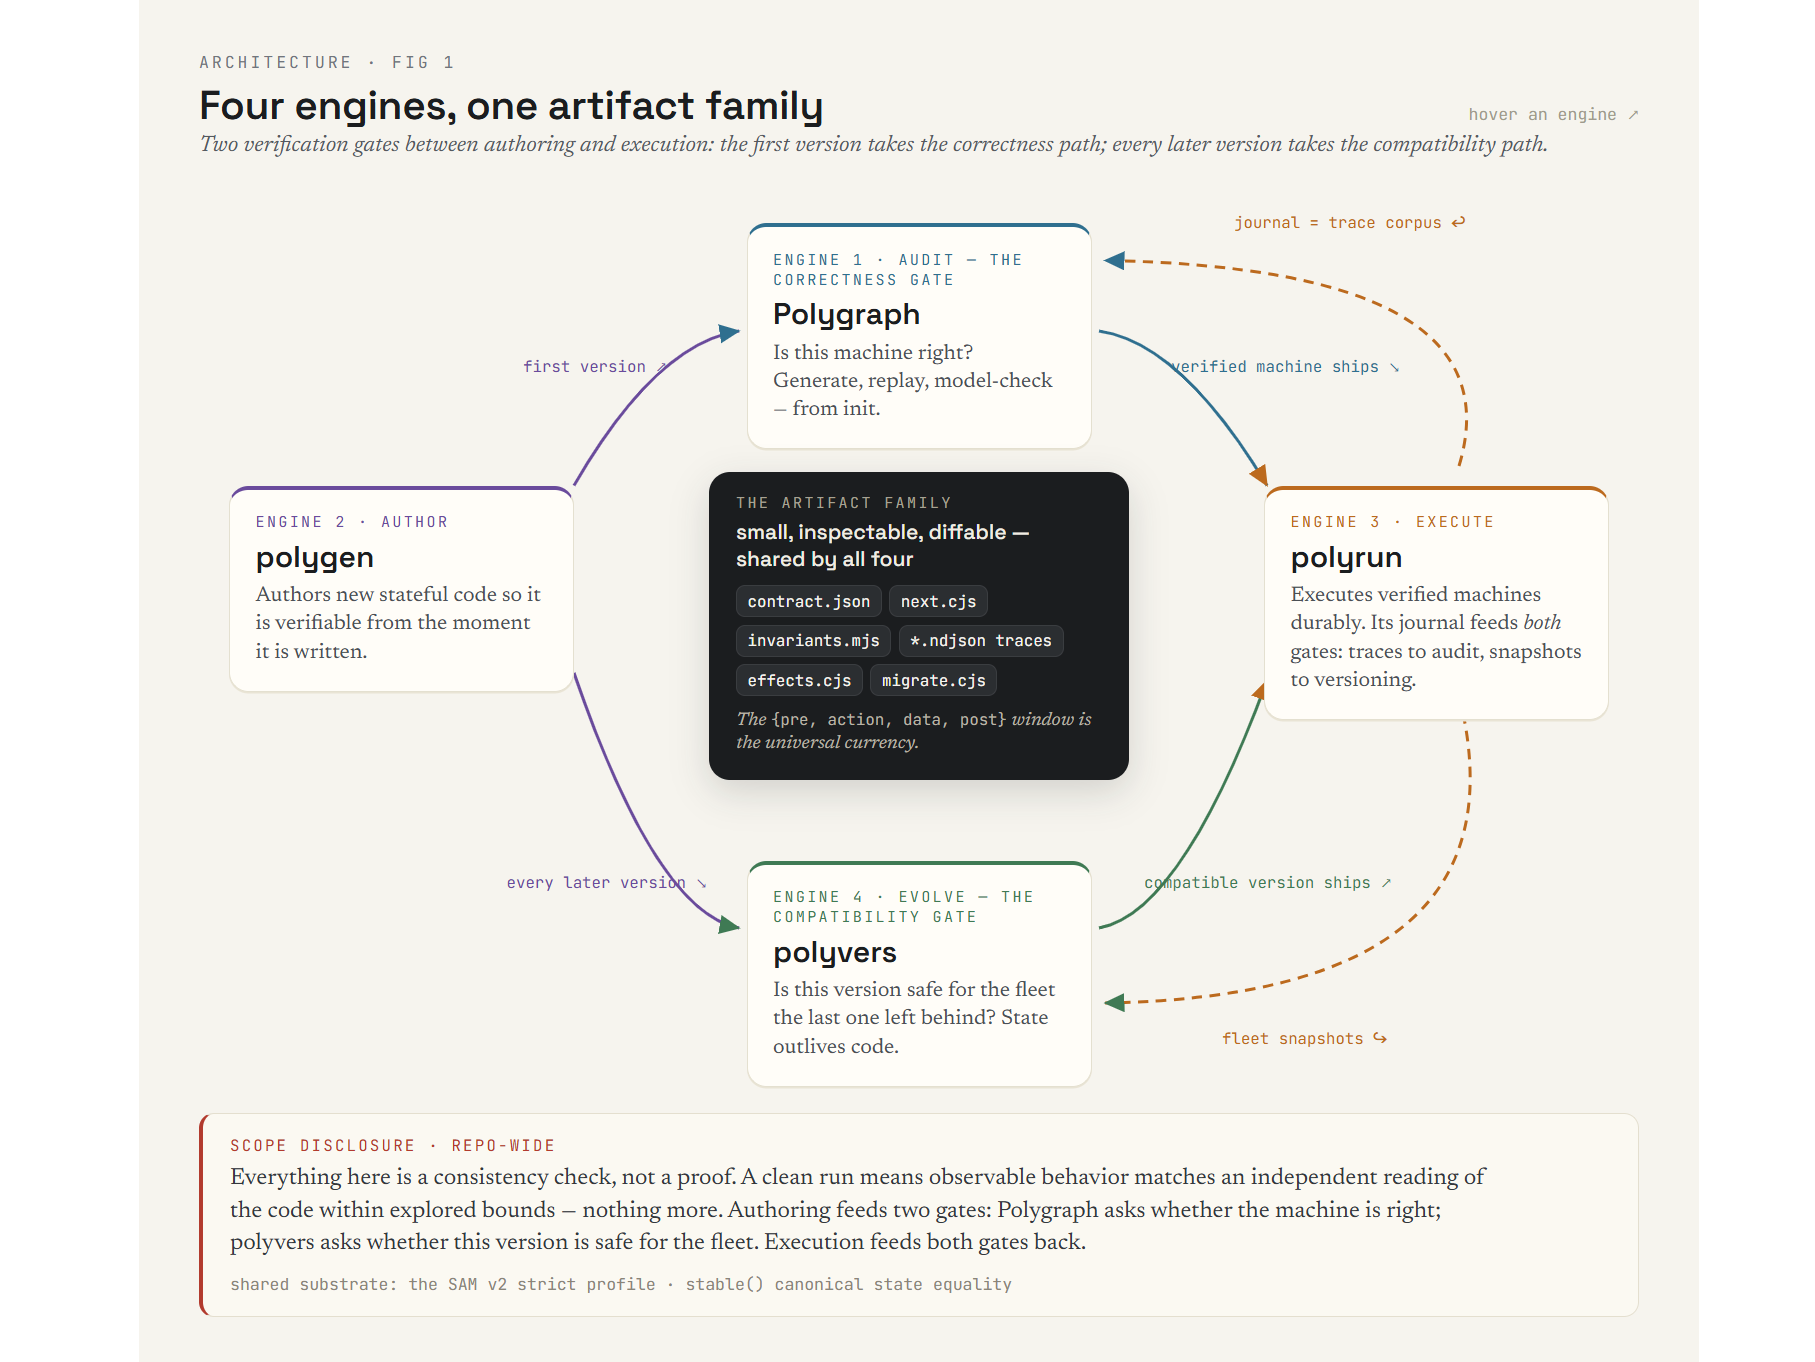
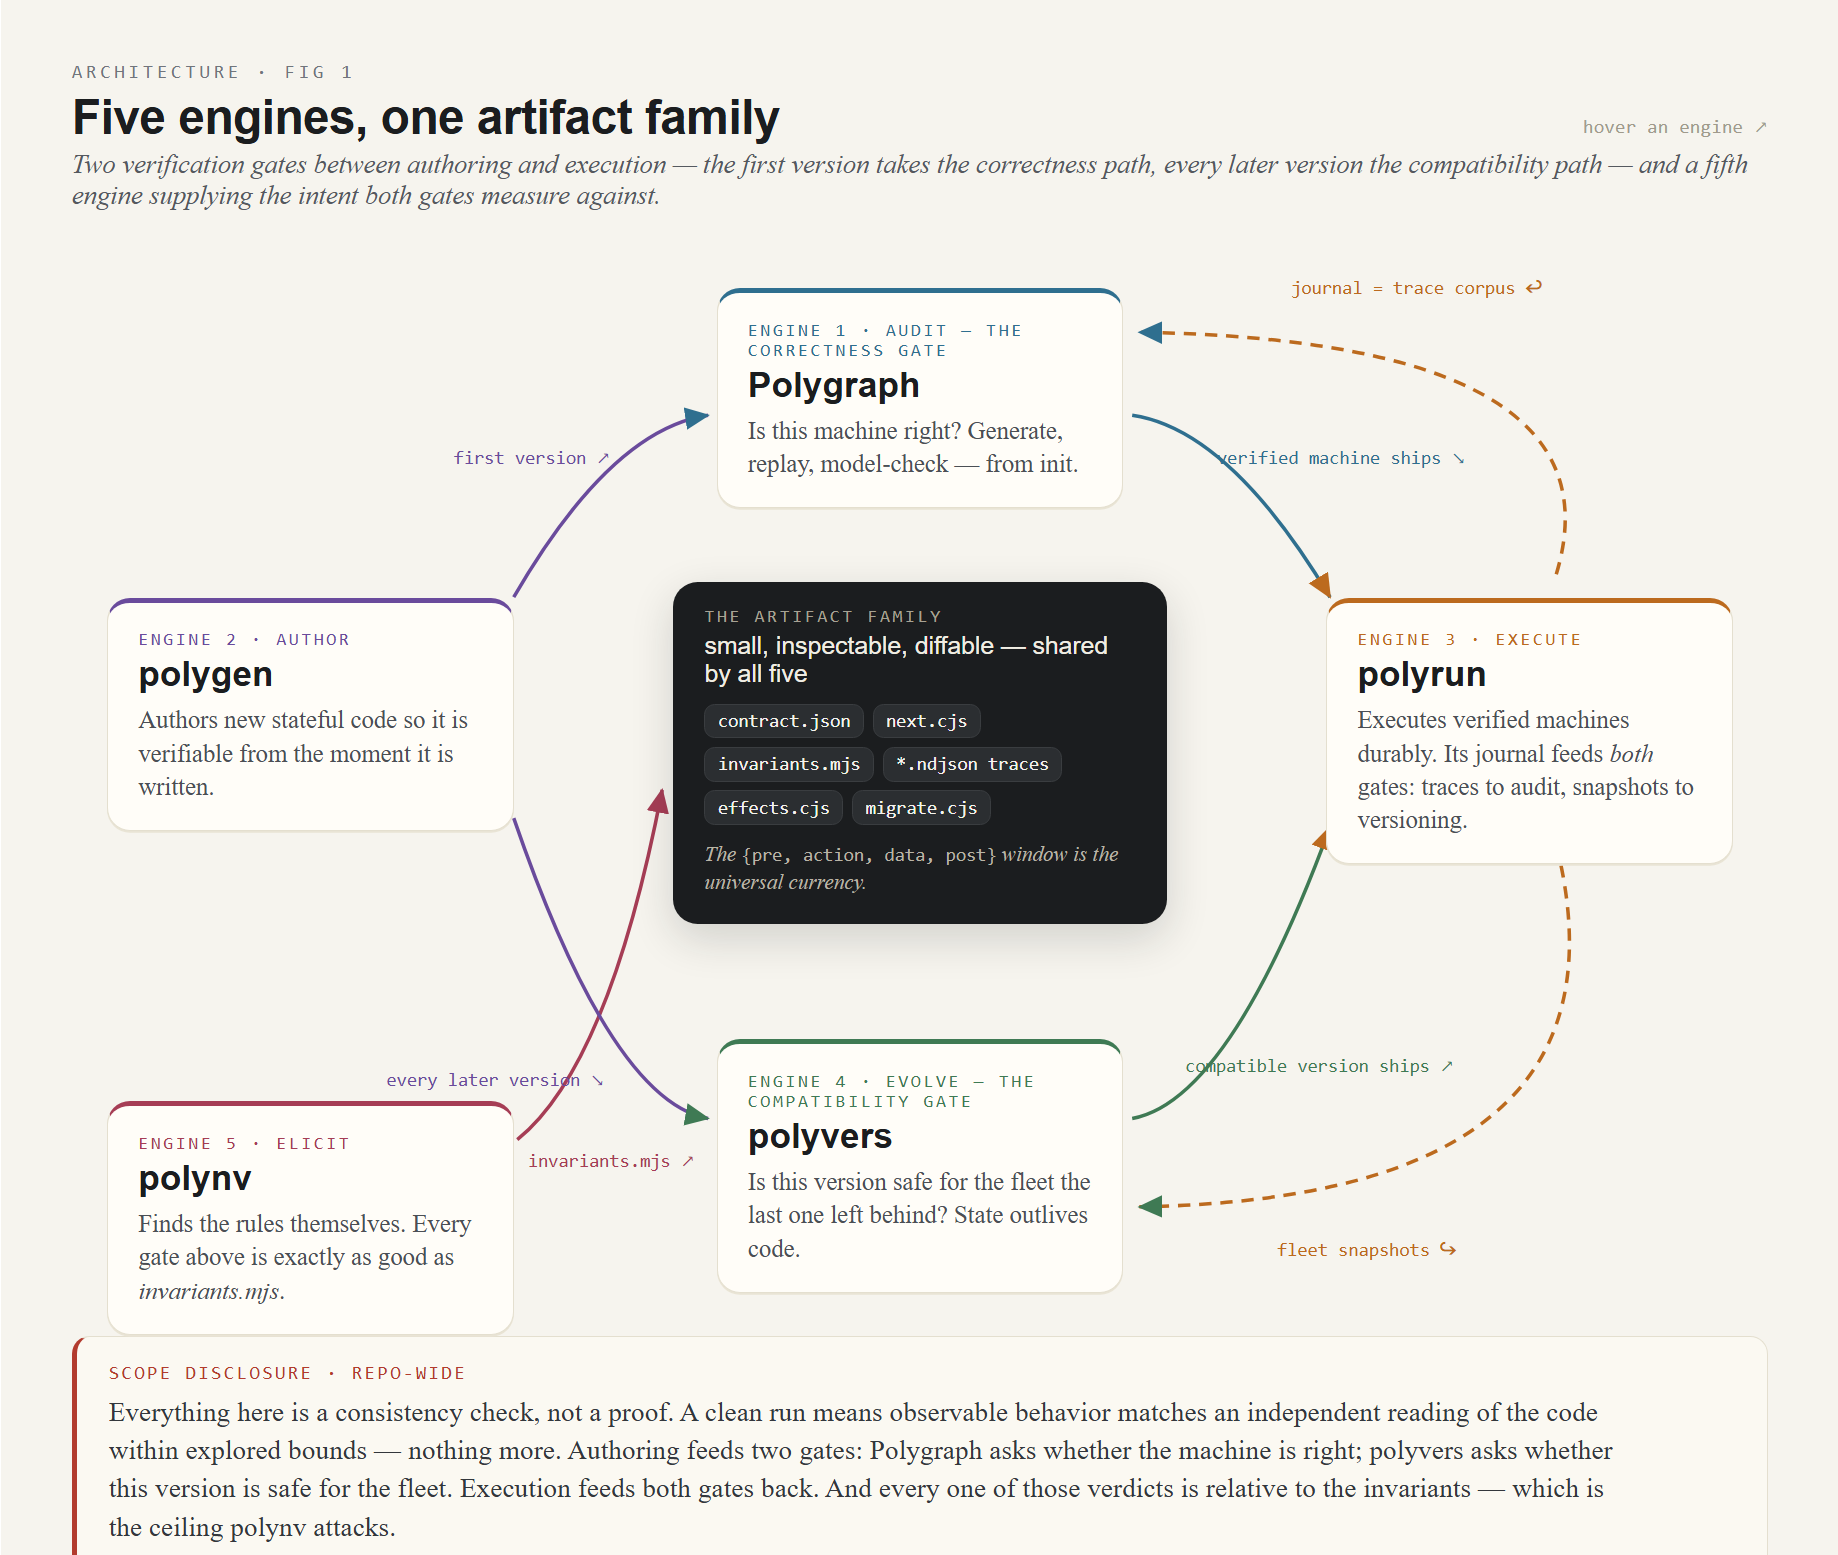
docs: put polynv in the architecture diagrams
The fig-1 overview still showed four engines — polynv, the engine every
other verdict depends on, was missing entirely, and ARCHITECTURE.md carried
a note saying the rendered diagram predated it. Added polynv as Engine 5
(bottom-left, with its arc into the artifact family labelled
invariants.mjs), retitled to 'Five engines', reworked the standfirst to
name what the fifth engine contributes, and added its detail-panel entry.
Repositioned two arc labels the new card collided with.

Two new slides give polynv the same treatment its siblings have: fig 6
walks the elicitation loop (harvest → pre-check → the two question shapes →
disposition → invariants.mjs), and fig 7 walks the adequacy grade (mutate →
discard equivalents by graph comparison → kill or survive → survivors
become ranked questions → the trust tier), carrying the real 101/113 OMS
calibration and its stated blind spot.

Thumbnails regenerated for all three via headless Chrome at the house
scale (1838px wide, matching the existing set). Index and ARCHITECTURE
wired up; every diagram and thumb reference verified to resolve.

diff --git a/docs/diagrams/architecture-07-polynv-grade.dc.html b/docs/diagrams/architecture-07-polynv-grade.dc.html
@@ -1,0 +1,108 @@
+<!DOCTYPE html>
+<html>
+<head>
+<meta charset="utf-8">
+<meta name="viewport" content="width=device-width, initial-scale=1">
+<script src="./support.js"></script>
+</head>
+<body>
+<x-dc>
+<helmet>
+<link rel="preconnect" href="https://fonts.googleapis.com">
+<link rel="preconnect" href="https://fonts.gstatic.com" crossorigin>
+<link href="https://fonts.googleapis.com/css2?family=Space+Grotesk:wght@400;500;600;700&family=JetBrains+Mono:wght@400;500;600&family=Newsreader:ital,opsz,wght@0,6..72,400;0,6..72,500;1,6..72,400&display=swap" rel="stylesheet">
+<style>
+  * { box-sizing: border-box; }
+  body { margin: 0; }
+</style>
+</helmet>
+<div style="font-family: 'Space Grotesk', sans-serif; background: #f6f4ee; color: #1b1d1f; padding: 34px 40px 30px; width: 1040px; margin: 0 auto;">
+
+  <div style="display: flex; justify-content: space-between; align-items: flex-end; margin-bottom: 2px;">
+    <div>
+      <div style="font-family: 'JetBrains Mono', monospace; font-size: 11px; letter-spacing: 0.18em; text-transform: uppercase; color: #a63d55;">Architecture · fig 7 · Engine 5 elicit</div>
+      <div style="font-size: 27px; font-weight: 600; letter-spacing: -0.01em; margin-top: 4px; white-space: nowrap;">polynv — how strong is the invariant set you ended up with?</div>
+    </div>
+    <div style="font-family: 'JetBrains Mono', monospace; font-size: 11px; color: #a09a8c; padding-bottom: 4px;">hover a stage ↗</div>
+  </div>
+  <div style="font-family: 'Newsreader', serif; font-style: italic; font-size: 15px; color: #a63d55; margin-bottom: 20px;">An invariant file that passes every gate might still be nearly empty. Mutation testing is the measure — and finite declared domains make its hardest subproblem mechanical.</div>
+
+  <div style="display: flex; align-items: stretch; gap: 0;">
+    <sc-for list="{{ stages }}" as="s" hint-placeholder-count="5">
+      <div style="display: flex; align-items: center; flex: 1;">
+        <div onMouseEnter="{{ s.on }}" style="flex: 1; background: #fffdf8; border: 1px solid #e4dfcf; border-radius: 12px; padding: 14px 15px; min-height: 132px; box-shadow: {{ s.ring }}; opacity: {{ s.op }}; transition: box-shadow .18s, opacity .18s; cursor: default;">
+          <div style="width: 22px; height: 22px; border-radius: 50%; background: {{ s.dot }}; color: #fff; font-family: 'JetBrains Mono', monospace; font-size: 11px; font-weight: 600; display: flex; align-items: center; justify-content: center;">{{ s.n }}</div>
+          <div style="font-size: 14.5px; font-weight: 600; margin: 9px 0 5px; line-height: 1.2;">{{ s.title }}</div>
+          <div style="font-family: 'JetBrains Mono', monospace; font-size: 10.5px; line-height: 1.45; color: #6b6f76;">{{ s.sub }}</div>
+        </div>
+        <div style="width: 22px; text-align: center; color: #b9b3a4; font-size: 15px; flex: none; opacity: {{ s.arrow }};">›</div>
+      </div>
+    </sc-for>
+  </div>
+
+  <div style="display: flex; gap: 14px; margin-top: 16px; align-items: stretch;">
+    <div style="flex: 1; background: #f7edf0; border: 1px solid #e6ccd4; border-radius: 12px; padding: 16px 20px; min-height: 96px;">
+      <div style="font-family: 'JetBrains Mono', monospace; font-size: 10.5px; letter-spacing: 0.14em; text-transform: uppercase; color: #a63d55;">Step {{ stepNo }} / 5 · {{ capTitle }}</div>
+      <div style="font-family: 'Newsreader', serif; font-size: 16px; line-height: 1.45; color: #2b3033; margin-top: 6px;">{{ caption }}</div>
+    </div>
+    <div style="width: 292px; flex: none; background: #1b1d1f; color: #f6f4ee; border-radius: 12px; padding: 15px 18px;">
+      <div style="font-family: 'JetBrains Mono', monospace; font-size: 10px; letter-spacing: 0.16em; text-transform: uppercase; color: #a7a294;">calibration · OMS order machine</div>
+      <div style="font-size: 30px; font-weight: 600; margin: 6px 0 2px; letter-spacing: -0.01em;">101<span style="color:#9a9488; font-size: 20px;"> / 113</span></div>
+      <div style="font-family: 'JetBrains Mono', monospace; font-size: 10.5px; color: #b9b4a6; line-height: 1.5;">distinct mutants killed by the<br>hand-written invariant set</div>
+      <div style="border-top: 1px solid #34383b; margin: 10px 0 8px;"></div>
+      <div style="font-family: 'Newsreader', serif; font-style: italic; font-size: 12.5px; color: #cfc9ba; line-height: 1.35;">All 12 survivors are behavior-<em>removing</em> mutants — the stated blind spot of any safety-invariant set.</div>
+    </div>
+  </div>
+
+  <div style="display: flex; align-items: center; gap: 14px; margin-top: 16px;">
+    <button onClick="{{ prev }}" style="font-family: 'Space Grotesk', sans-serif; font-size: 13px; font-weight: 500; background: #fffdf8; border: 1px solid #cdc7b8; color: #33373c; border-radius: 8px; padding: 8px 16px; cursor: pointer;">‹ Prev</button>
+    <button onClick="{{ next }}" style="font-family: 'Space Grotesk', sans-serif; font-size: 13px; font-weight: 500; background: #a63d55; border: 1px solid #a63d55; color: #fff; border-radius: 8px; padding: 8px 16px; cursor: pointer;">Next ›</button>
+    <div style="display: flex; gap: 7px; margin-left: 6px;">
+      <sc-for list="{{ dots }}" as="d" hint-placeholder-count="5">
+        <span onClick="{{ d.go }}" style="width: 9px; height: 9px; border-radius: 50%; background: {{ d.fill }}; cursor: pointer;"></span>
+      </sc-for>
+    </div>
+    <div style="font-family: 'JetBrains Mono', monospace; font-size: 10.5px; color: #a09a8c; margin-left: auto;">no API key · deterministic · the denominator is distinct mutants only</div>
+  </div>
+
+</div>
+</x-dc>
+<script type="text/x-dc" data-dc-script data-props="{&quot;$preview&quot;: {&quot;width&quot;: 1040, &quot;height&quot;: 520}}">
+class Component extends DCLogic {
+  state = { step: 0 };
+  go(i){ this.setState({ step: i }); }
+  renderVals(){
+    const step = this.state.step, N = 5;
+    const stages = [
+      { title: 'Mutate', sub: 'guard-negation drop · transition retarget · acceptor widening · field freeze' },
+      { title: 'Discard equivalents', sub: 'BFS graph comparison — same behavior, different source' },
+      { title: 'Kill or survive', sub: 'run the invariant set against every DISTINCT mutant' },
+      { title: 'Survivors → questions', sub: 'ranked: a candidate that closes a survivor comes first' },
+      { title: 'Trust tier', sub: 'the score travels into polyvers’ compat-report' },
+    ];
+    const captions = [
+      { t: 'Mutate', c: 'Four operator families break the machine in ways a real defect would: drop a guard so a rejected action is suddenly accepted, retarget a transition to the wrong state, widen an acceptor so it applies where it should not, and freeze a field so an update silently does nothing. Each mutant is a machine that IS broken — the question is whether your rules notice.' },
+      { t: 'Discard equivalents', c: 'Mutation testing’s classic problem is the equivalent mutant: a source change that produces identical behavior, which nothing can kill and which quietly deflates every score. Deciding equivalence is undecidable in general — but not here. Finite declared domains mean both machines can be fully explored and their reachable graphs compared, so equivalent mutants are discarded mechanically. The finite-domain restriction the whole toolset accepts pays itself back precisely here: the denominator is behaviorally distinct mutants only.' },
+      { t: 'Kill or survive', c: 'Every distinct mutant is model-checked against the confirmed invariant set. A mutant is KILLED when some rule catches the broken behavior — that is the invariant earning its place. A SURVIVOR is a machine you broke on purpose that your rules said nothing about: a hole in intent, expressed as a concrete machine you can read.' },
+      { t: 'Survivors → questions', c: 'Survivors are not just a score, they are the next interview. Open candidates are profiled against them, and the ones that would close a surviving mutant rank first — so the question queue is ordered by how much intent each answer would actually add, rather than by harvest order. Profile-duplicates of already-confirmed rules are deprioritized.' },
+      { t: 'Trust tier', c: 'The grade is disclosed, not just computed: polyvers’ compat-report carries it as an invariant-adequacy trust tier — measured, STALE (the invariants drifted from the graded oracle), UNREADABLE, or NOT MEASURED. A versioning verdict therefore states how much intent it was checked against. And the blind spot is stated rather than smoothed over: behavior-REMOVING mutants largely evade safety invariants, because "nothing bad happens" is trivially satisfied by a machine that does nothing.' },
+    ];
+    return {
+      stages: stages.map((s, i) => ({
+        n: i + 1, title: s.title, sub: s.sub,
+        on: () => this.go(i),
+        dot: i <= step ? '#a63d55' : '#c3bdae',
+        ring: i === step ? '0 0 0 2px #a63d55, 0 6px 16px rgba(166,61,85,0.18)' : '0 1px 0 #e9e4d5',
+        op: i <= step ? '1' : '0.5',
+        arrow: i < N - 1 ? (i < step ? '1' : '0.35') : '0',
+      })),
+      dots: Array.from({ length: N }, (_, i) => ({ go: () => this.go(i), fill: i === step ? '#a63d55' : '#cdc7b8' })),
+      stepNo: step + 1, capTitle: captions[step].t, caption: captions[step].c,
+      prev: () => this.setState(s => ({ step: Math.max(0, s.step - 1) })),
+      next: () => this.setState(s => ({ step: Math.min(N - 1, s.step + 1) })),
+    };
+  }
+}
+</script>
+</body>
+</html>

diff --git a/docs/diagrams/architecture-06-polynv-elicit.dc.html b/docs/diagrams/architecture-06-polynv-elicit.dc.html
@@ -1,0 +1,98 @@
+<!DOCTYPE html>
+<html>
+<head>
+<meta charset="utf-8">
+<meta name="viewport" content="width=device-width, initial-scale=1">
+<script src="./support.js"></script>
+</head>
+<body>
+<x-dc>
+<helmet>
+<link rel="preconnect" href="https://fonts.googleapis.com">
+<link rel="preconnect" href="https://fonts.gstatic.com" crossorigin>
+<link href="https://fonts.googleapis.com/css2?family=Space+Grotesk:wght@400;500;600;700&family=JetBrains+Mono:wght@400;500;600&family=Newsreader:ital,opsz,wght@0,6..72,400;0,6..72,500;1,6..72,400&display=swap" rel="stylesheet">
+<style>
+  * { box-sizing: border-box; }
+  body { margin: 0; }
+</style>
+</helmet>
+<div style="font-family: 'Space Grotesk', sans-serif; background: #f6f4ee; color: #1b1d1f; padding: 34px 40px 30px; width: 1040px; margin: 0 auto;">
+
+  <div style="display: flex; justify-content: space-between; align-items: flex-end; margin-bottom: 2px;">
+    <div>
+      <div style="font-family: 'JetBrains Mono', monospace; font-size: 11px; letter-spacing: 0.18em; text-transform: uppercase; color: #a63d55;">Architecture · fig 6 · Engine 5 elicit</div>
+      <div style="font-size: 27px; font-weight: 600; letter-spacing: -0.01em; margin-top: 4px; white-space: nowrap;">polynv — eliciting the rules every gate checks against</div>
+    </div>
+  </div>
+  <div style="font-family: 'Newsreader', serif; font-style: italic; font-size: 15px; color: #a63d55; margin-bottom: 20px;">Writing predicates from a blank page is a scarce skill. Judging a concrete story about your own machine is a common one.</div>
+
+  <div style="display: flex; align-items: stretch; gap: 0;">
+    <sc-for list="{{ stages }}" as="s" hint-placeholder-count="5">
+      <div style="display: flex; align-items: center; flex: 1;">
+        <div onMouseEnter="{{ s.on }}" style="flex: 1; background: #fffdf8; border: 1px solid #e4dfcf; border-radius: 12px; padding: 14px 15px; min-height: 128px; box-shadow: {{ s.ring }}; opacity: {{ s.op }}; transition: box-shadow .18s, opacity .18s; cursor: default;">
+          <div style="width: 22px; height: 22px; border-radius: 50%; background: {{ s.dot }}; color: #fff; font-family: 'JetBrains Mono', monospace; font-size: 11px; font-weight: 600; display: flex; align-items: center; justify-content: center;">{{ s.n }}</div>
+          <div style="font-size: 14.5px; font-weight: 600; margin: 9px 0 5px; line-height: 1.2;">{{ s.title }}</div>
+          <div style="font-family: 'JetBrains Mono', monospace; font-size: 10.5px; line-height: 1.45; color: #6b6f76;">{{ s.sub }}</div>
+        </div>
+        <div style="width: 22px; text-align: center; color: #b9b3a4; font-size: 15px; flex: none; opacity: {{ s.arrow }};">›</div>
+      </div>
+    </sc-for>
+  </div>
+
+  <div style="margin-top: 18px; background: #f7edf0; border: 1px solid #e6ccd4; border-radius: 12px; padding: 16px 20px; min-height: 92px;">
+    <div style="font-family: 'JetBrains Mono', monospace; font-size: 10.5px; letter-spacing: 0.14em; text-transform: uppercase; color: #a63d55;">Step {{ stepNo }} / 5 · {{ capTitle }}</div>
+    <div style="font-family: 'Newsreader', serif; font-size: 16px; line-height: 1.45; color: #2b3033; margin-top: 6px; max-width: 900px;">{{ caption }}</div>
+  </div>
+
+  <div style="display: flex; align-items: center; gap: 14px; margin-top: 16px;">
+    <button onClick="{{ prev }}" style="font-family: 'Space Grotesk', sans-serif; font-size: 13px; font-weight: 500; background: #fffdf8; border: 1px solid #cdc7b8; color: #33373c; border-radius: 8px; padding: 8px 16px; cursor: pointer;">‹ Prev</button>
+    <button onClick="{{ next }}" style="font-family: 'Space Grotesk', sans-serif; font-size: 13px; font-weight: 500; background: #a63d55; border: 1px solid #a63d55; color: #fff; border-radius: 8px; padding: 8px 16px; cursor: pointer;">Next ›</button>
+    <div style="display: flex; gap: 7px; margin-left: 6px;">
+      <sc-for list="{{ dots }}" as="d" hint-placeholder-count="5">
+        <span onClick="{{ d.go }}" style="width: 9px; height: 9px; border-radius: 50%; background: {{ d.fill }}; cursor: pointer;"></span>
+      </sc-for>
+    </div>
+    <div style="font-family: 'JetBrains Mono', monospace; font-size: 10.5px; color: #a09a8c; margin-left: auto;">the plugin proposes · only the designer confirms</div>
+  </div>
+
+</div>
+</x-dc>
+<script type="text/x-dc" data-dc-script data-props="{&quot;$preview&quot;: {&quot;width&quot;: 1040, &quot;height&quot;: 500}}">
+class Component extends DCLogic {
+  state = { step: 0 };
+  go(i){ this.setState({ step: i }); }
+  renderVals(){
+    const step = this.state.step, N = 5;
+    const stages = [
+      { title: 'Harvest', sub: 'contract templates · state-property + precedence mining · domain priors · LLM code-reading' },
+      { title: 'Pre-check', sub: 'run every candidate over the reachable graph BEFORE asking' },
+      { title: 'Two shapes', sub: 'HOLDS → rule or coincidence?   ·   FAILS → shortest counterexample' },
+      { title: 'Disposition', sub: 'confirm · reject · modify · defer · abandon — attributed, append-only' },
+      { title: 'invariants.mjs', sub: 'generated with provenance; the ledger travels to polyvers' },
+    ];
+    const captions = [
+      { t: 'Harvest', c: 'Candidates come from four sources, none of them a blank page: templates over the contract vocabulary (the one source that can propose a rule the code already violates), state-property mining over fleet snapshots and trace states, precedence mining over ordered event streams (traces and the polyrun journal — never snapshots, which carry no order), frontier-model domain priors that ask payments or auth lore about THIS machine, and optional LLM code-reading. Mining runs against a fixed SAM-tuned grammar with statistical confidence thresholds; a below-threshold observation becomes a note, never a question.' },
+      { t: 'Pre-check', c: 'This is the move that makes the whole thing work. Every candidate is evaluated over the machine’s reachable state graph before a human ever sees it, so no question arrives as an abstract "should this be true?" — the tool already knows whether it IS true, and asks the useful half instead. Candidates that are vacuous, pruned by a stronger sibling, or duplicates of a confirmed rule never reach the interview at all.' },
+      { t: 'Two shapes', c: 'A pre-checked candidate arrives as exactly one of two questions. HOLDS: "this is true everywhere I looked — is it a rule, or a coincidence of the current implementation?" FAILS: "the machine can do THIS today" — with the shortest action path that does it — "is that acceptable?" The second shape is the valuable one: rejecting the story confirms an invariant with its repro already attached, and accepting it documents a deliberate behavior nobody had written down.' },
+      { t: 'Disposition', c: 'The designer answers; the tool records. Confirm, reject, modify (the edited predicate is re-checked and consequence-diffed — what does the change newly forbid, what does it newly allow), defer to a named person, or abandon. Every event is attributed and append-only in intent-ledger.json, including the rejected and abandoned ones, so a re-harvest never re-proposes a question already settled. Elicitation is ongoing and multi-person by design: park a question for whoever actually knows the answer.' },
+      { t: 'invariants.mjs', c: 'Confirmed rules generate invariants.mjs with per-rule provenance, and a hand-written file is never overwritten without --force. The ledger then travels: polyvers’ compat-report reads it for the intent-lane provenance (was this rule elicited and confirmed, or does it have no record?) and for the adequacy trust tier — so a versioning verdict discloses how much intent it was actually checked against.' },
+    ];
+    return {
+      stages: stages.map((s, i) => ({
+        n: i + 1, title: s.title, sub: s.sub,
+        on: () => this.go(i),
+        dot: i <= step ? '#a63d55' : '#c3bdae',
+        ring: i === step ? '0 0 0 2px #a63d55, 0 6px 16px rgba(166,61,85,0.18)' : '0 1px 0 #e9e4d5',
+        op: i <= step ? '1' : '0.5',
+        arrow: i < N - 1 ? (i < step ? '1' : '0.35') : '0',
+      })),
+      dots: Array.from({ length: N }, (_, i) => ({ go: () => this.go(i), fill: i === step ? '#a63d55' : '#cdc7b8' })),
+      stepNo: step + 1, capTitle: captions[step].t, caption: captions[step].c,
+      prev: () => this.setState(s => ({ step: Math.max(0, s.step - 1) })),
+      next: () => this.setState(s => ({ step: Math.min(N - 1, s.step + 1) })),
+    };
+  }
+}
+</script>
+</body>
+</html>

diff --git a/docs/diagrams/architecture-01-three-engines.dc.html b/docs/diagrams/architecture-01-three-engines.dc.html
@@ -21,11 +21,11 @@
   <div style="display: flex; justify-content: space-between; align-items: flex-end; margin-bottom: 2px;">
     <div>
       <div style="font-family: 'JetBrains Mono', monospace; font-size: 11px; letter-spacing: 0.18em; text-transform: uppercase; color: #71757c;">Architecture · fig 1</div>
-      <div style="font-size: 27px; font-weight: 600; letter-spacing: -0.01em; margin-top: 4px; white-space: nowrap;">Four engines, one artifact family</div>
+      <div style="font-size: 27px; font-weight: 600; letter-spacing: -0.01em; margin-top: 4px; white-space: nowrap;">Five engines, one artifact family</div>
     </div>
     <div style="font-family: 'JetBrains Mono', monospace; font-size: 11px; color: #a09a8c; padding-bottom: 4px;">hover an engine ↗</div>
   </div>
-  <div style="font-family: 'Newsreader', serif; font-style: italic; font-size: 15px; color: #55595f; margin-bottom: 14px;">Two verification gates between authoring and execution: the first version takes the correctness path; every later version takes the compatibility path.</div>
+  <div style="font-family: 'Newsreader', serif; font-style: italic; font-size: 15px; color: #55595f; margin-bottom: 14px;">Two verification gates between authoring and execution — the first version takes the correctness path, every later version the compatibility path — and a fifth engine supplying the intent both gates measure against.</div>
 
   <div style="position: relative; width: 960px; height: 615px; margin: 0 auto;">
     <svg viewBox="0 0 960 615" width="960" height="615" style="position: absolute; inset: 0; overflow: visible;">
@@ -33,7 +33,10 @@
         <marker id="ah-t" markerWidth="9" markerHeight="9" refX="6.5" refY="3.2" orient="auto"><path d="M0,0 L7,3.2 L0,6.4 Z" fill="#2f6f8f"></path></marker>
         <marker id="ah-e" markerWidth="9" markerHeight="9" refX="6.5" refY="3.2" orient="auto"><path d="M0,0 L7,3.2 L0,6.4 Z" fill="#3f7a54"></path></marker>
         <marker id="ah-a" markerWidth="9" markerHeight="9" refX="6.5" refY="3.2" orient="auto"><path d="M0,0 L7,3.2 L0,6.4 Z" fill="#bc6a1e"></path></marker>
+        <marker id="ah-n" markerWidth="9" markerHeight="9" refX="6.5" refY="3.2" orient="auto"><path d="M0,0 L7,3.2 L0,6.4 Z" fill="#a63d55"></path></marker>
       </defs>
+      <!-- polynv → the artifact family: the intent both gates measure against -->
+      <path d="M 252,512 Q 304,470 334,314" fill="none" stroke="#a63d55" stroke-width="2" marker-end="url(#ah-n)" opacity="{{ opArcNH }}"></path>
       <!-- forward: author → gates -->
       <path d="M 250,205 Q 305,110 360,102" fill="none" stroke="#6a4b9c" stroke-width="2" marker-end="url(#ah-t)" opacity="{{ opArcGG }}"></path>
       <path d="M 250,330 Q 305,490 360,500" fill="none" stroke="#6a4b9c" stroke-width="2" marker-end="url(#ah-e)" opacity="{{ opArcGV }}"></path>
@@ -47,11 +50,12 @@
 
     <!-- arc labels -->
     <div style="position: absolute; left: 216px; top: 118px; font-family: 'JetBrains Mono', monospace; font-size: 10.5px; color: #6a4b9c; opacity: {{ opArcGG }};">first version ↗</div>
-    <div style="position: absolute; left: 205px; top: 462px; font-family: 'JetBrains Mono', monospace; font-size: 10.5px; color: #6a4b9c; opacity: {{ opArcGV }};">every later version ↘</div>
+    <div style="position: absolute; left: 178px; top: 470px; font-family: 'JetBrains Mono', monospace; font-size: 10.5px; color: #6a4b9c; opacity: {{ opArcGV }};">every later version ↘</div>
     <div style="position: absolute; left: 648px; top: 118px; font-family: 'JetBrains Mono', monospace; font-size: 10.5px; color: #2f6f8f; opacity: {{ opArcTR }};">verified machine ships ↘</div>
     <div style="position: absolute; left: 630px; top: 462px; font-family: 'JetBrains Mono', monospace; font-size: 10.5px; color: #3f7a54; opacity: {{ opArcVR }};">compatible version ships ↗</div>
     <div style="position: absolute; left: 690px; top: 22px; font-family: 'JetBrains Mono', monospace; font-size: 10.5px; color: #bc6a1e; opacity: {{ opArcRT }};">journal = trace corpus ↩</div>
     <div style="position: absolute; left: 682px; top: 566px; font-family: 'JetBrains Mono', monospace; font-size: 10.5px; color: #bc6a1e; opacity: {{ opArcRV }};">fleet snapshots ↪</div>
+    <div style="position: absolute; left: 258px; top: 516px; font-family: 'JetBrains Mono', monospace; font-size: 10.5px; color: #a63d55; opacity: {{ opArcNH }};">invariants.mjs ↗</div>
 
     <!-- polygen (left) -->
     <div onMouseEnter="{{ onGen }}" onMouseLeave="{{ onClear }}" style="position: absolute; left: 20px; top: 205px; width: 230px; background: #fffdf8; border: 1px solid #e4dfcf; border-top: 3px solid #6a4b9c; border-radius: 13px; padding: 15px 17px; cursor: default; box-shadow: 0 1px 0 #e9e4d5; opacity: {{ opGen }}; transition: opacity .18s;">
@@ -70,7 +74,7 @@
     <!-- hub (center, between the two gates) -->
     <div style="position: absolute; left: 340px; top: 196px; width: 280px; background: #1b1d1f; color: #f6f4ee; border-radius: 14px; padding: 14px 18px 16px; box-shadow: 0 8px 24px rgba(27,29,31,0.16);">
       <div style="font-family: 'JetBrains Mono', monospace; font-size: 10px; letter-spacing: 0.16em; text-transform: uppercase; color: #a7a294;">the artifact family</div>
-      <div style="font-size: 14px; font-weight: 500; margin: 3px 0 9px; color: #f0ede3;">small, inspectable, diffable — shared by all four</div>
+      <div style="font-size: 14px; font-weight: 500; margin: 3px 0 9px; color: #f0ede3;">small, inspectable, diffable — shared by all five</div>
       <div style="display: flex; flex-wrap: wrap; gap: 5px;">
         <span style="font-family: 'JetBrains Mono', monospace; font-size: 10.5px; background: #2b2e31; border: 1px solid #3a3d40; border-radius: 6px; padding: 3px 7px;">contract.json</span>
         <span style="font-family: 'JetBrains Mono', monospace; font-size: 10.5px; background: #2b2e31; border: 1px solid #3a3d40; border-radius: 6px; padding: 3px 7px;">next.cjs</span>
@@ -87,6 +91,13 @@
       <div style="font-family: 'JetBrains Mono', monospace; font-size: 10px; letter-spacing: 0.16em; text-transform: uppercase; color: #3f7a54;">Engine 4 · evolve — the compatibility gate</div>
       <div style="font-size: 20px; font-weight: 600; margin: 3px 0 5px;">polyvers</div>
       <div style="font-family: 'Newsreader', serif; font-size: 14px; line-height: 1.35; color: #4b4f55;">Is this version safe for the fleet the last one left behind? State outlives code.</div>
+    </div>
+
+    <!-- polynv (bottom-left: supplies the intent both gates measure against) -->
+    <div onMouseEnter="{{ onNv }}" onMouseLeave="{{ onClear }}" style="position: absolute; left: 20px; top: 490px; width: 230px; background: #fffdf8; border: 1px solid #e4dfcf; border-top: 3px solid #a63d55; border-radius: 13px; padding: 15px 17px; cursor: default; box-shadow: 0 1px 0 #e9e4d5; opacity: {{ opNv }}; transition: opacity .18s;">
+      <div style="font-family: 'JetBrains Mono', monospace; font-size: 10px; letter-spacing: 0.16em; text-transform: uppercase; color: #a63d55;">Engine 5 · elicit</div>
+      <div style="font-size: 20px; font-weight: 600; margin: 3px 0 5px;">polynv</div>
+      <div style="font-family: 'Newsreader', serif; font-size: 14px; line-height: 1.35; color: #4b4f55;">Finds the rules themselves. Every gate above is exactly as good as <em>invariants.mjs</em>.</div>
     </div>
 
     <!-- polyrun (right) -->
@@ -116,7 +127,7 @@ class Component extends DCLogic {
     const arc = (...ids) => (!A || ids.includes(A)) ? '1' : '0.12';
     const details = {
       null: { color: '#b23b2e', kicker: 'Scope disclosure · repo-wide',
-        body: 'Everything here is a consistency check, not a proof. A clean run means observable behavior matches an independent reading of the code within explored bounds — nothing more. Authoring feeds two gates: Polygraph asks whether the machine is right; polyvers asks whether this version is safe for the fleet. Execution feeds both gates back.',
+        body: 'Everything here is a consistency check, not a proof. A clean run means observable behavior matches an independent reading of the code within explored bounds — nothing more. Authoring feeds two gates: Polygraph asks whether the machine is right; polyvers asks whether this version is safe for the fleet. Execution feeds both gates back. And every one of those verdicts is relative to the invariants — which is the ceiling polynv attacks.',
         touches: 'shared substrate: the SAM v2 strict profile · stable() canonical state equality' },
       polygen: { color: '#6a4b9c', kicker: 'polygen · author',
         body: 'Turns one paragraph of intent into a verified machine — drafting the contract, authoring the SAM v2 module, proposing invariants, model-checking its own output and self-repairing code (never invariants). A first version heads to the correctness gate; every revision also heads to the compatibility gate.',
@@ -130,15 +141,20 @@ class Component extends DCLogic {
       polyvers: { color: '#3f7a54', kicker: 'polyvers · evolve — the compatibility gate',
         body: 'The alternate verification path for every version after the first: classify the change into lanes, then gate it against fleet snapshots — round-trip, old-version stimuli replay, migration validation, and a model check exploring from LIVE states rather than init(): can any instance the fleet holds be driven to a violation under the new rules?',
         touches: 'consumes ← both versions of the family + fleet snapshots (from polyrun)   ·   produces → compat-report · migrate.cjs (scaffold) · matrix' },
+      polynv: { color: '#a63d55', kicker: 'polynv · elicit — the intent the gates measure against',
+        body: 'Every verdict above is relative to invariants.mjs, and writing predicates from a blank page is a scarce skill. polynv harvests candidate rules (templates, mining, domain priors), PRE-CHECKS each against the reachable graph, and puts it to the designer as one of two answerable questions — "this holds everywhere: rule or coincidence?" or "the machine can do this today: acceptable?" with the shortest path. Then it grades the resulting set by mutation testing, so an invariant file that is merely present can be told apart from one that is strong.',
+        touches: 'consumes ← contract + module (+ traces / fleet snapshots)   ·   produces → invariants.mjs · intent-ledger.json · adequacy grade (→ polyvers compat-report)' },
     };
     const d = details[A] || details.null;
     return {
       onGen: () => this.set('polygen'), onGraph: () => this.set('polygraph'),
-      onRun: () => this.set('polyrun'), onVers: () => this.set('polyvers'), onClear: () => this.set(null),
-      opGen: dim('polygen'), opGraph: dim('polygraph'), opRun: dim('polyrun'), opVers: dim('polyvers'),
+      onRun: () => this.set('polyrun'), onVers: () => this.set('polyvers'),
+      onNv: () => this.set('polynv'), onClear: () => this.set(null),
+      opGen: dim('polygen'), opGraph: dim('polygraph'), opRun: dim('polyrun'), opVers: dim('polyvers'), opNv: dim('polynv'),
       opArcGG: arc('polygen','polygraph'), opArcGV: arc('polygen','polyvers'),
       opArcTR: arc('polygraph','polyrun'), opArcVR: arc('polyvers','polyrun'),
       opArcRT: arc('polyrun','polygraph'), opArcRV: arc('polyrun','polyvers'),
+      opArcNH: arc('polynv'),
       detailColor: d.color, detailKicker: d.kicker, detailBody: d.body, detailTouches: d.touches,
     };
   }

diff --git a/docs/diagrams/index.dc.html b/docs/diagrams/index.dc.html
@@ -59,12 +59,14 @@ class Component extends DCLogic {
       n: 'fig ' + (i + 1), title: it[0], desc: it[1], file: it[2], href: it[2],
     })) });
     return { sections: [
-      S('ARCHITECTURE.md', '#1b1d1f', 'four engines around one artifact family', [
-        ['Four engines, one artifact family', 'Author \→ two verification gates (correctness \· compatibility) \→ production, with execution feeding both gates back.', 'architecture-01-three-engines.dc.html'],
+      S('ARCHITECTURE.md', '#1b1d1f', 'five engines around one artifact family', [
+        ['Five engines, one artifact family', 'Author \→ two verification gates (correctness \· compatibility) \→ production, with execution feeding both gates back and polynv supplying the intent they measure against.', 'architecture-01-three-engines.dc.html'],
         ['The artifact family', 'The five artifacts, who produces each and who consumes it.', 'architecture-02-artifact-family.dc.html'],
         ['Polygraph \— audit', 'Controls, N-way specs, replay and model check against existing code.', 'architecture-03-polygraph-audit.dc.html'],
         ['polygen \— author', 'Intent \→ contract \→ module \→ the repair loop that never touches invariants.', 'architecture-04-polygen-author.dc.html'],
         ['polyvers \— evolve', 'Classify the change, gate it against fleet snapshots, migrate, and check the rollout matrix.', 'architecture-05-polyvers-evolve.dc.html'],
+        ['polynv \— elicit', 'Harvest, pre-check, and put each candidate rule to the designer as one of two answerable questions.', 'architecture-06-polynv-elicit.dc.html'],
+        ['polynv \— the adequacy grade', 'Mutate the machine, discard equivalents by graph comparison, and measure what the invariant set actually kills.', 'architecture-07-polynv-grade.dc.html'],
       ]),
       S('SDLC.md', '#6a4b9c', 'threading the engines into an agentic lifecycle', [
         ['A lifecycle for verified code', 'Phases 0\–7 with the three human gates surfaced.', 'sdlc-01-lifecycle.dc.html'],

diff --git a/docs/VERSIONING.md b/docs/VERSIONING.md
@@ -292,19 +292,23 @@ every ingredient has precedent; the sources below are the entry points.
 > Bad? Semantic Versioning and Impact of Breaking Changes in Maven
 > Central* · *Microservice API Evolution in Practice*.
 
-## The one-paragraph version
+## Conclusion
 
 State-machine versioning is hard because state outlives code, "version"
 means four different things, and the industrial default (replay
 determinism) taxes every future change while verifying nothing about
-safety. This toolset's answer: make the state shape a sealed declaration
-so shape compatibility is a mechanical round-trip over the live fleet;
-make semantics checkable so "can the new rules hurt old state" is a model
-check from live snapshots rather than a review vibe; make in-flight
-stimuli safe by the same verified rejection that makes redelivery safe;
-make vocabulary drift a load-time error; make migration a pure, gated,
-fenced, journaled artifact; and version the *audit* along with the code so
-history stays checkable across the boundary. Versioning stops being a
-permanent discipline practiced on every change and becomes a set of gates
-you pass — with the honest caveat that the gates are exactly as good as
-the invariants you bothered to state.
+safety. This toolset's answer: 
+- make the state shape a sealed declaration so shape compatibility is a 
+mechanical round-trip over the live fleet;
+- make semantics checkable so "can the new rules hurt old state" is a 
+model check from live snapshots rather than a review vibe; 
+- make in-flight stimuli safe by the same verified rejection that makes 
+redelivery safe;
+- make vocabulary drift a load-time error; 
+make migration a pure, gated, fenced, journaled artifact;  
+- version the *audit* along with the code so history stays checkable 
+across the boundary. 
+
+Versioning stops being a permanent discipline practiced on every change 
+and becomes a set of gates you pass — with the honest caveat that the 
+gates are exactly as good as the invariants you bothered to state.

diff --git a/docs/ARCHITECTURE.md b/docs/ARCHITECTURE.md
@@ -28,7 +28,7 @@ the fleet snapshots are the versioning gate's initial states.
 > data is not measured by any gate.
 
 [![Five engines, one artifact family](diagrams/thumbs/architecture-01-three-engines.png)](diagrams/architecture-01-three-engines.dc.html)
-*Interactive diagram — [Five engines, one artifact family](diagrams/architecture-01-three-engines.dc.html) (hover an engine; the rendered diagram predates polynv — a refresh is a recorded follow-up)*
+*Interactive diagram — [Five engines, one artifact family](diagrams/architecture-01-three-engines.dc.html) (hover an engine)*
 
 ## The artifact family
 
@@ -256,6 +256,9 @@ milestones: `docs/polyvers-plan.md`; worked example:
 
 ## Engine 5 — polynv (elicit)
 
+[![polynv — eliciting the rules every gate checks against](diagrams/thumbs/architecture-06-polynv-elicit.png)](diagrams/architecture-06-polynv-elicit.dc.html)
+*Interactive diagram — [polynv — eliciting the rules every gate checks against](diagrams/architecture-06-polynv-elicit.dc.html)*
+
 The engine that attacks the ceiling the trust-boundaries table below names:
 every gate is exactly as good as `invariants.mjs`, and invariant-writing is
 a scarce skill. polynv converts it into a common one — judging concrete
@@ -283,6 +286,9 @@ anchoring: `docs/polynv-plan.md`; worked example + calibration:
   the confirmed set by kill ratio; survivors become the next questions,
   and polyvers disclosures carry the score (or STALE once the invariants
   drift from the graded oracle).
+
+[![polynv — how strong is the invariant set you ended up with?](diagrams/thumbs/architecture-07-polynv-grade.png)](diagrams/architecture-07-polynv-grade.dc.html)
+*Interactive diagram — [polynv — the adequacy grade](diagrams/architecture-07-polynv-grade.dc.html)*
 
 ## Trust boundaries
 